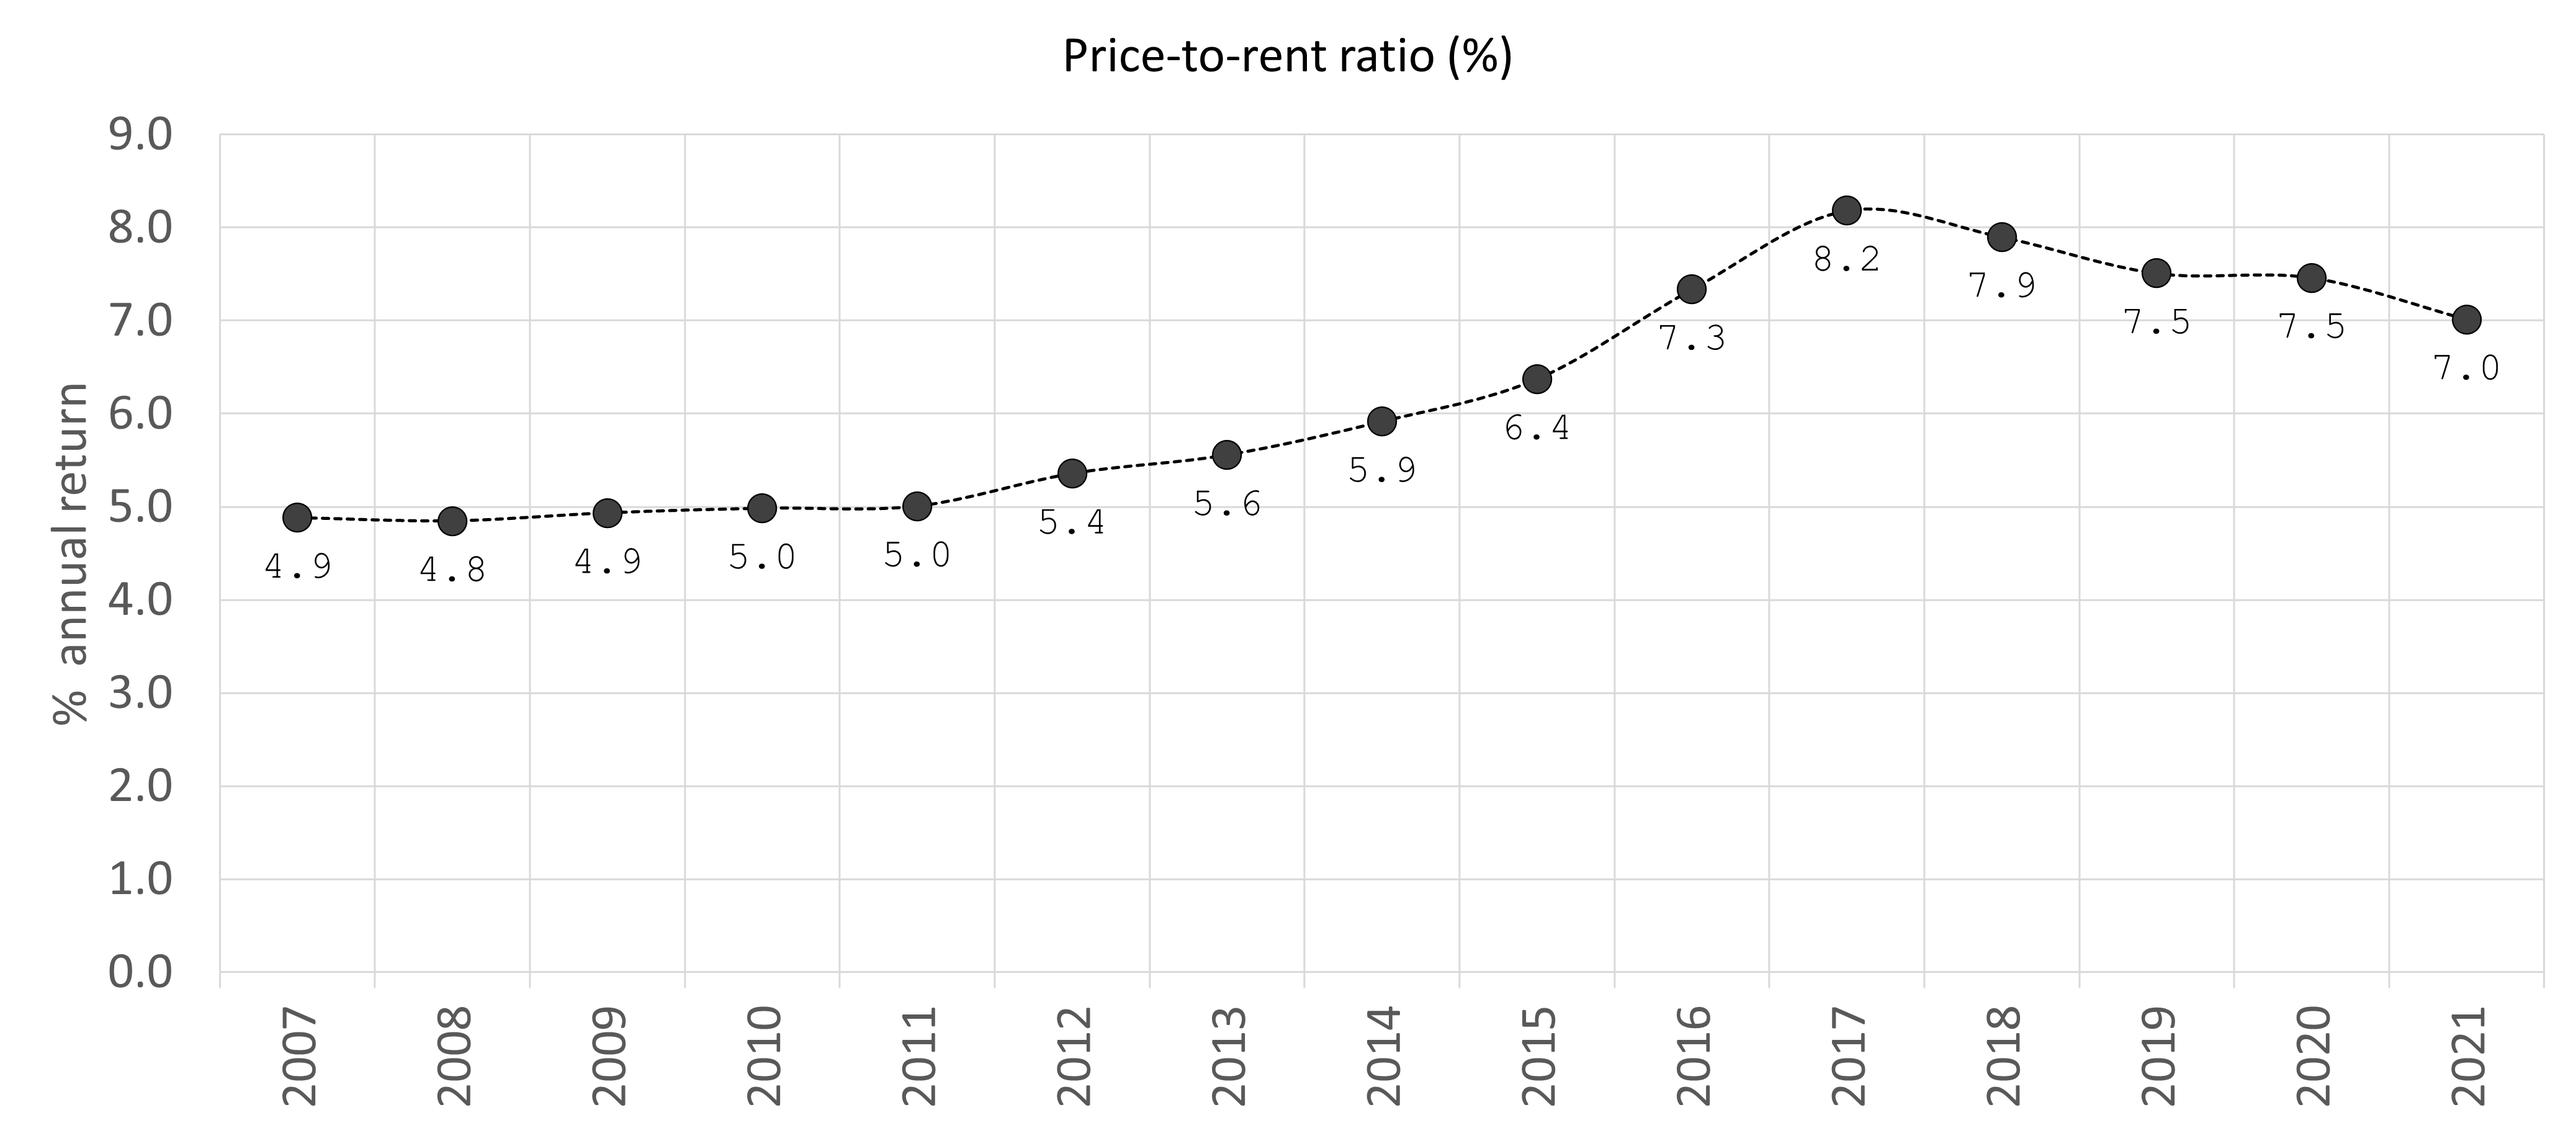
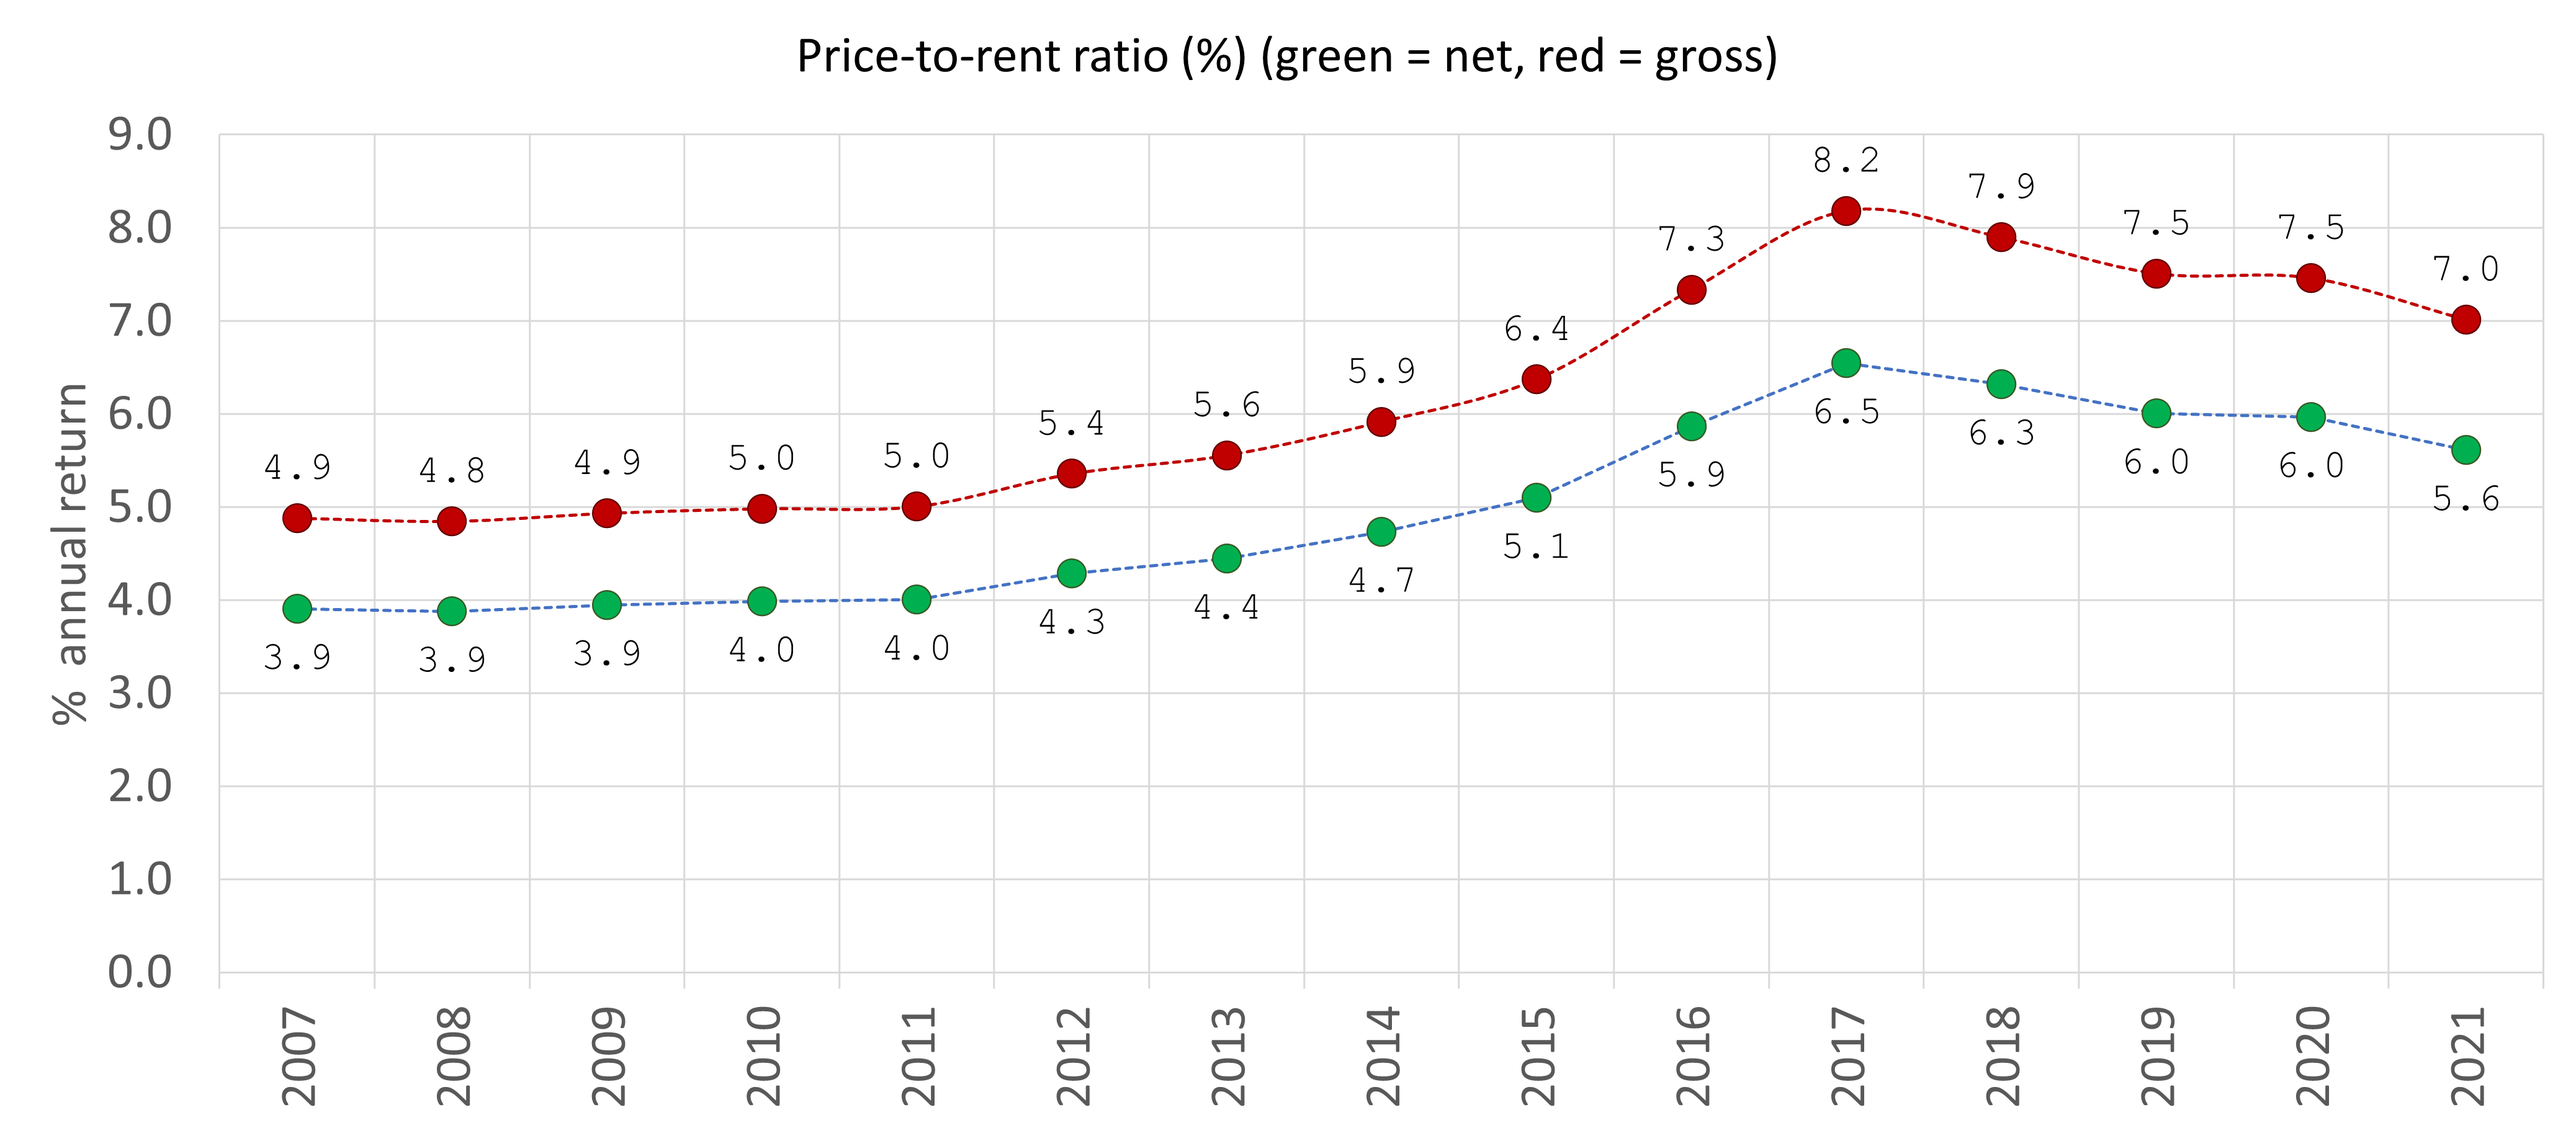
update1

diff --git a/pages/posts/rent.md b/pages/posts/rent.md
@@ -12,18 +12,18 @@ import Image from 'next/image'
 
 ![Reload chart](/images/rent.png)
 
-- **Price-to-rent ratio (time)**: number of years to fully recover a home purchase in Catalonia.
+- **Price-to-rent ratio (time, net and gross)**: number of years to fully recover a home purchase in Catalonia.
 
 ![Reload chart](/images/rent2.png)
 
-- **Price-to-rent ratio (%)**: annual percentage of housing rental return in Catalonia.
+- **Price-to-rent ratio (%, net and gross)**: annual percentage of housing rental return in Catalonia.
 
 # Interpretation and observations
 
 The charts from above show the ratio between the purchase price and the rental price (both in time, years; and in %). In essence, it's an indicator similar to the price-to-earnings ratio (P/E) used in the stock market analysis. It can be interpreted on the following way:
 
-- At 2008 prices, it took 20.6 years to fully recover a house purchase through rental returns, at a 4.8% annual rental return.
-- At 2017 prices, it took 12.2 years to fully recover a house purchase through rental returns, at a 8.2% annual rental return.
+- At 2008 prices, it took 28.8 years to fully recover a house purchase through rental returns, at a 3.9% annual rental return.
+- At 2017 prices, it took 15.3 years to fully recover a house purchase through rental returns, at a 6.5% annual rental return.
 
 # Data sources
 
